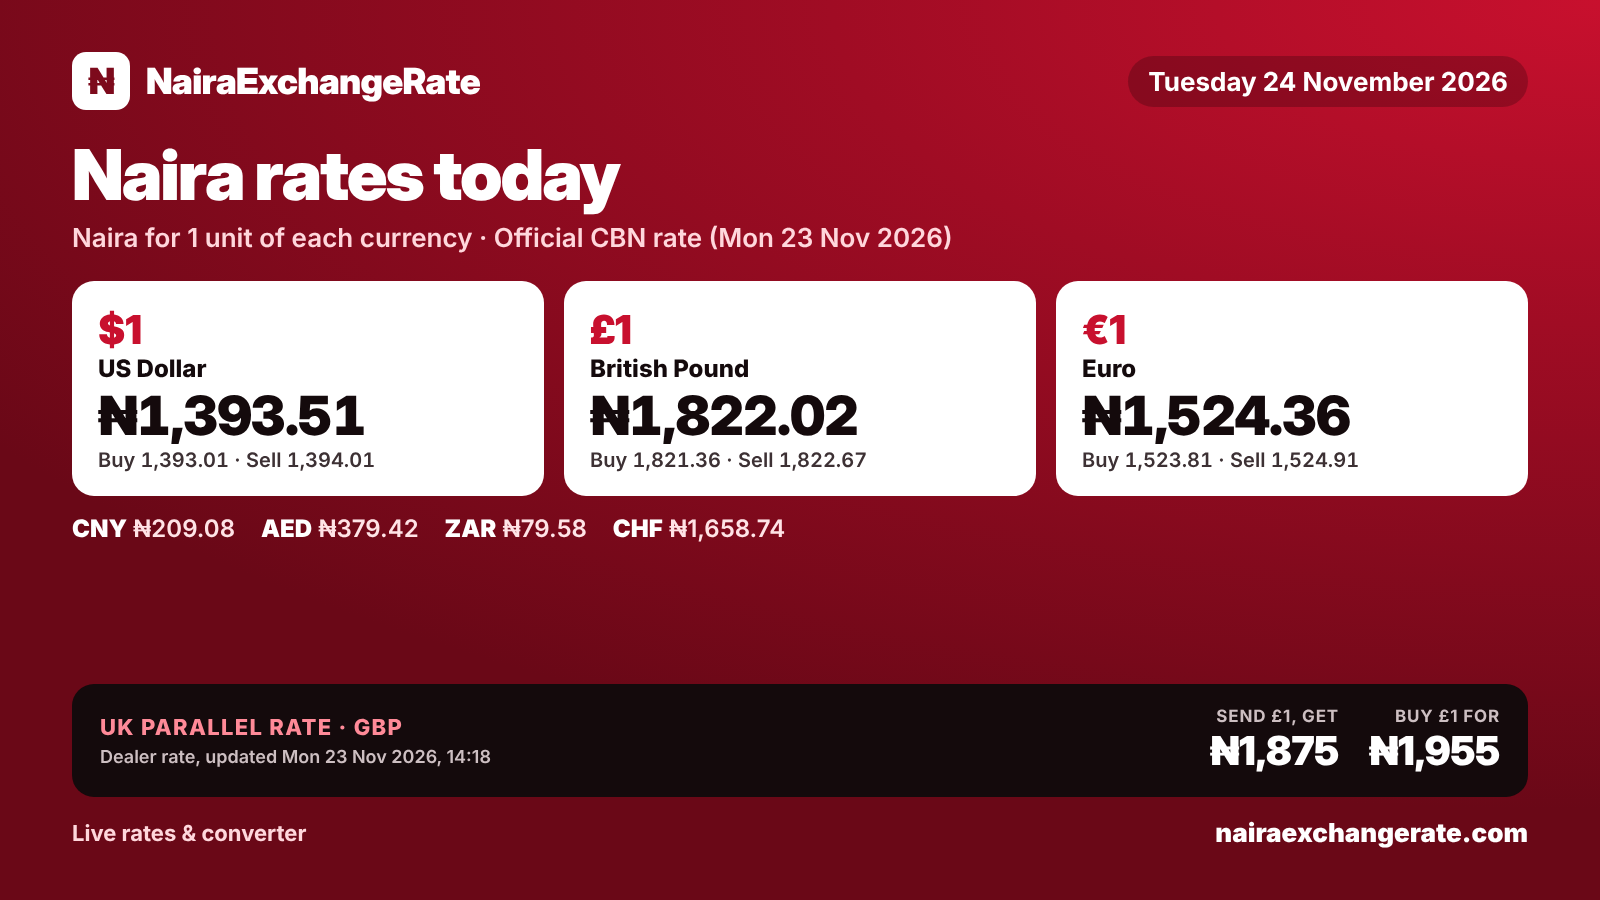
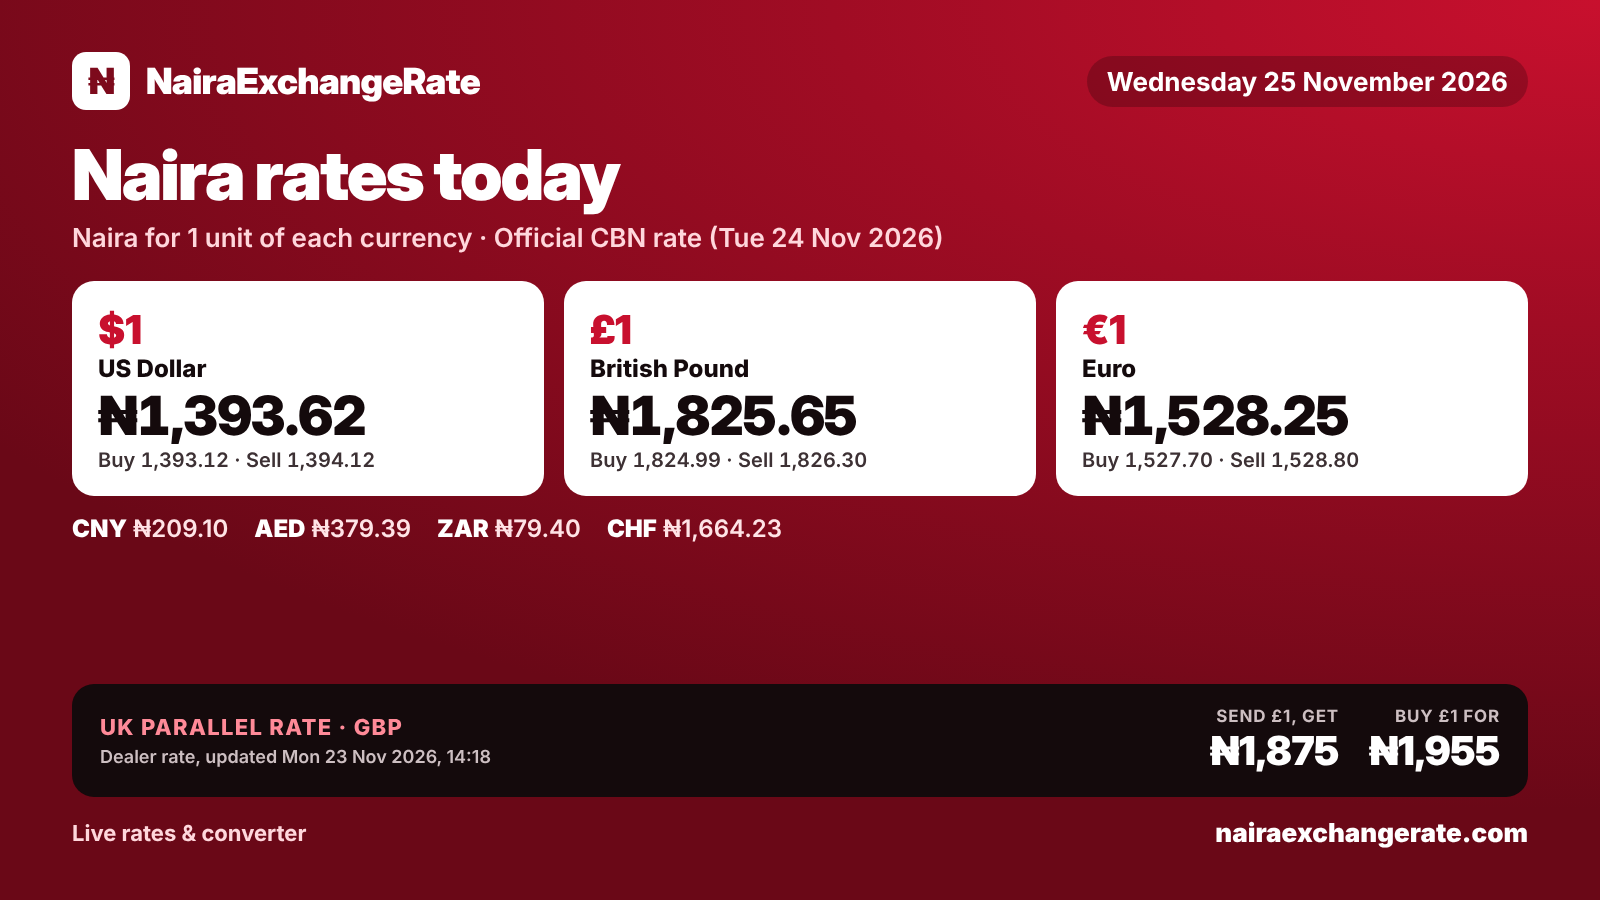
Daily update 2026-11-25
Claude-Session: https://claude.ai/code/session_01NfXuJuWmUEg5Tv9KaTfzpv

diff --git a/index.html b/index.html
@@ -359,61 +359,82 @@ footer .wrap{padding-block:22px 34px;font-size:.84rem;color:var(--muted);display
     }
   ],
   "cbn": {
-    "date": "2026-11-23",
+    "date": "2026-11-24",
     "rates": {
       "xof": {
-        "buy": 2.3075,
-        "middle": 2.3175,
-        "sell": 2.3275
+        "buy": 2.3039,
+        "middle": 2.3139,
+        "sell": 2.3239
       },
       "cny": {
-        "buy": 209.0039,
-        "middle": 209.0789,
-        "sell": 209.1539
+        "buy": 209.0209,
+        "middle": 209.0959,
+        "sell": 209.1709
       },
       "eur": {
-        "buy": 1523.8146,
-        "middle": 1524.3616,
-        "sell": 1524.9085
+        "buy": 1527.6998,
+        "middle": 1528.2481,
+        "sell": 1528.7964
       },
       "jpy": {
-        "buy": 8.755,
-        "middle": 8.7582,
-        "sell": 8.7613
+        "buy": 8.759,
+        "middle": 8.7622,
+        "sell": 8.7653
       },
       "sar": {
-        "buy": 371.2419,
-        "middle": 371.3751,
-        "sell": 371.5084
+        "buy": 371.2226,
+        "middle": 371.3558,
+        "sell": 371.489
       },
       "zar": {
-        "buy": 79.5561,
-        "middle": 79.5846,
-        "sell": 79.6132
+        "buy": 79.373,
+        "middle": 79.4015,
+        "sell": 79.43
       },
       "chf": {
-        "buy": 1658.1489,
-        "middle": 1658.7441,
-        "sell": 1659.3392
+        "buy": 1663.6303,
+        "middle": 1664.2274,
+        "sell": 1664.8245
       },
       "gbp": {
-        "buy": 1821.3618,
-        "middle": 1822.0155,
-        "sell": 1822.6693
+        "buy": 1824.9924,
+        "middle": 1825.6474,
+        "sell": 1826.3024
       },
       "usd": {
-        "buy": 1393.0109,
-        "middle": 1393.5109,
-        "sell": 1394.0109
+        "buy": 1393.124,
+        "middle": 1393.624,
+        "sell": 1394.124
       },
       "aed": {
-        "buy": 379.288,
-        "middle": 379.4241,
-        "sell": 379.5602
+        "buy": 379.2568,
+        "middle": 379.3929,
+        "sell": 379.529
       }
     }
   },
   "news": [
+    {
+      "source": "Premium Times",
+      "title": "CBN dismisses concerns over decline in foreign reserves",
+      "summary": "The CBN Governor called the roughly $300m dip in gross reserves, now about $54.02bn, very modest.",
+      "url": "https://premiumtimesng.com/business/business-news/927757-cbn-dismisses-concerns-over-decline-in-foreign-reserves.html",
+      "date": "2026-11-24"
+    },
+    {
+      "source": "P.M. News",
+      "title": "CBN keeps interest rate at 23% as MPC maintains tight monetary stance",
+      "summary": "The MPC held the policy rate at 23% and left the 45% cash reserve ratio for banks unchanged.",
+      "url": "https://pmnewsnigeria.com/2026/11/24/cbn-keeps-interest-rate-at-23-as-mpc-maintains-tight-monetary-stance/",
+      "date": "2026-11-24"
+    },
+    {
+      "source": "Tribune Online",
+      "title": "NGX sell-off deepens as market sheds N514.91bn in 6th consecutive loss",
+      "summary": "Stocks fell for a sixth straight session, with the All-Share Index down 0.32% to 245,685.87 and N514.91bn wiped off.",
+      "url": "https://tribuneonlineng.com/ngx-sell-off-deepens-as-market-sheds-n514-91bn-in-6th-consecutive-loss/",
+      "date": "2026-11-24"
+    },
     {
       "source": "Daily Trust",
       "title": "Why CBN may retain interest rate at 23% despite falling inflation",
@@ -434,27 +455,6 @@ footer .wrap{padding-block:22px 34px;font-size:.84rem;color:var(--muted);display
       "summary": "Nigerian stocks shed ₦767 billion on Monday, leaving market value at about ₦160 trillion after a fifth straight day of losses.",
       "url": "https://dailytimesng.com/ngx-loses-%E2%82%A6767bn-as-bearish-trend-enters-fifth-day/",
       "date": "2026-11-23"
-    },
-    {
-      "source": "BusinessDay",
-      "title": "CBN seen holding rates as election spending threatens disinflation",
-      "summary": "Analysts expect the CBN to keep its benchmark rate at 23% as the Monetary Policy Committee meets on 23–24 November.",
-      "url": "https://businessday.ng/business-economy/article/cbn-seen-holding-rates-as-election-spending-threatens-disinflation/",
-      "date": "2026-11-23"
-    },
-    {
-      "source": "P.M. News",
-      "title": "Dangote Refinery triggers nationwide petrol price decline",
-      "summary": "Pump prices are falling across Nigeria after Dangote cut its petrol gantry price to N1,070 per litre, its lowest since July.",
-      "url": "https://pmnewsnigeria.com/2026/11/22/dangote-refinery-triggers-nationwide-petrol-price-decline",
-      "date": "2026-11-22"
-    },
-    {
-      "source": "THISDAY",
-      "title": "FG’s Reforms Push Combined Tax Expenses of 30 Listed Firms up 72% to N4.6tn in Nine Months",
-      "summary": "Thirty NGX-listed companies paid about N4.6 trillion in tax in the first nine months of 2026, up 72% from N2.68 trillion a year earlier, after the new tax rules.",
-      "url": "https://www.thisdaylive.com/2026/11/22/fgs-reforms-push-combined-tax-expenses-of-30-listed-firms-up-72-to-n4-6tn-in-nine-months/",
-      "date": "2026-11-22"
     }
   ],
   "whatsappChannel": "https://whatsapp.com/channel/0029VbEJwXxCnA7nV3kcN73I",
@@ -650,6 +650,18 @@ footer .wrap{padding-block:22px 34px;font-size:.84rem;color:var(--muted);display
       "gbp": 1822.0155,
       "usd": 1393.5109,
       "aed": 379.4241
+    },
+    "2026-11-24": {
+      "xof": 2.3139,
+      "cny": 209.0959,
+      "eur": 1528.2481,
+      "jpy": 8.7622,
+      "sar": 371.3558,
+      "zar": 79.4015,
+      "chf": 1664.2274,
+      "gbp": 1825.6474,
+      "usd": 1393.624,
+      "aed": 379.3929
     }
   }
 }
